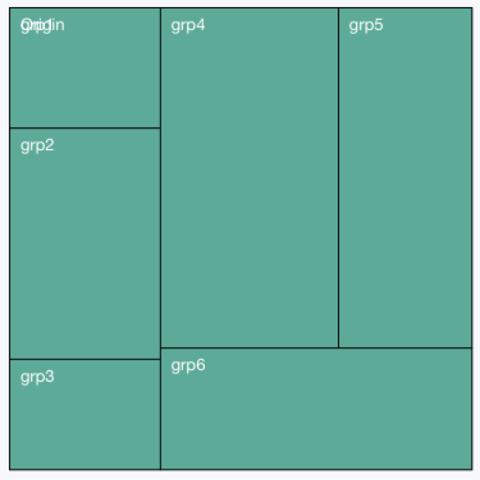
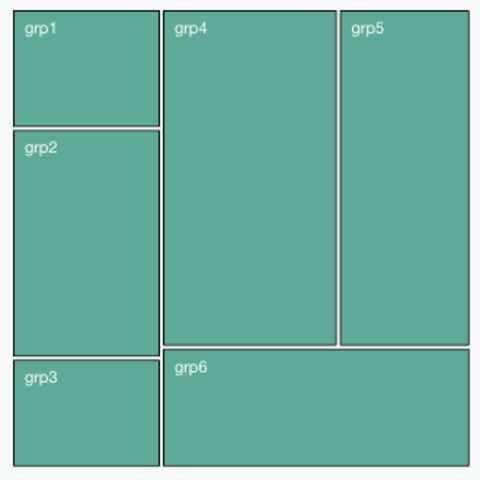
work on treemap

Changed region(s): [[0.0, 0.0, 1.0, 1.0]]

diff --git a/graph/treemap_json.html b/graph/treemap_json.html
@@ -14,15 +14,15 @@
   </script>
 
   <meta charset="utf-8">
-  <title>Basic treemap in d3.js</title>
+  <title>Treemap from Json format in d3.js</title>
   <meta name="viewport" content="width=device-width, initial-scale=1, shrink-to-fit=no">
-  <meta name="description" content="Using d3.js to create a very basic treemap: example with reproducible code.">
+  <meta name="description" content="Using d3.js to create a basic treemap from Json format: example with reproducible code.">
   <meta name="keywords" content="Data, Dataviz, Datavisualization, Javascript, JS, d3.js, treemap">
   <meta name="author" content="Yan Holtz">
 
-  <meta property="og:title" content="Basic treemap in d3.js">
+  <meta property="og:title" content="Treemap from Json format in d3.js">
   <meta property="og:image" content="https://www.d3-graph-gallery.com/img/logo/D3_full_medium.png">
-  <meta property="og:description" content="Using d3.js to create a very basic treemap: example with reproducible code.">
+  <meta property="og:description" content="Using d3.js to create a basic treemap from Json format: example with reproducible code.">
 
   <!-- Bootstrap core CSS -->
   <link href="../vendor/bootstrap/css/bootstrap.min.css" rel="stylesheet">
@@ -79,7 +79,7 @@ $(function(){
 <!-- Header -->
 <header class="masthead">
   <div class="textlanding">
-      <h1>Most basic treemap in d3.js</h1>
+      <h1>Treemap from Json format in d3.js</h1>
       <hr class="short_hr">
       <br>
       <ul class="list-inline social-buttons">
@@ -105,7 +105,7 @@ $(function(){
         </li>
       </ul>
       <br><br>
-      <p style="max-width: 700px; margin: auto">This post describes how to build a very basic <a href="../treemap.html">treemap</a> with d3.js. It takes into account a hierarchy dataset, stored at <code>.csv</code> format. See many other examples in the <a href="../treemap.html">treemap section</a> of the gallery. Learn more about the theory of treemaps in <a href="https://www.data-to-viz.com/graph/treemap.html">data-to-viz.com</a>.</p>
+      <p style="max-width: 700px; margin: auto">This post describes how to build a basic <a href="../treemap.html">treemap</a> with d3.js from a <code>Json</code> format input file. See <a href="treemap_basic.html">here</a> for <code>.csv</code> input format. More treemaps in the <a href="../treemap.html">dedicated section</a> of the gallery..</p>
       <br>
       <a class="btn btn-secondary btn-md text-uppercase" href="../treemap.html">Treemap section</a>
       <button class="btn btn-secondary btn-md text-uppercase" onclick="myCodeDownload('chart_example_from_d3-graph-gallery.html', 'code', 'codejs')">Download code</button>
@@ -192,28 +192,26 @@ var svg = d3.select("#my_dataviz")
   .attr("transform",
         "translate(" + margin.left + "," + margin.top + ")");
 
-// Read data
-d3.csv('https://raw.githubusercontent.com/holtzy/D3-graph-gallery/master/DATA/data_hierarchy_1level.csv', function(data) {
+// read json data
+d3.json("https://raw.githubusercontent.com/holtzy/D3-graph-gallery/master/DATA/data_dendrogram.json", function(data) {
 
-  // stratify the data: reformatting for d3.js
-  var root = d3.stratify()
-    .id(function(d) { return d.name; })   // Name of the entity (column name is name in csv)
-    .parentId(function(d) { return d.parent; })   // Name of the parent (column name is parent in csv)
-    (data);
-  root.sum(function(d) { return +d.value })   // Compute the numeric value for each entity
+  // Give the data to this cluster layout:
+  var root = d3.hierarchy(data, function(d) {
+      return d.children;
+  })
+  console.log(root)
 
   // Then d3.treemap computes the position of each element of the hierarchy
   // The coordinates are added to the root object above
-  d3.treemap()
-    .size([width, height])
-    .padding(4)
-    (root)
+  // d3.treemap()
+  //   .size([width, height])
+  //   .padding(20)
+  //   (root)
 
-console.log(root.leaves())
   // use this information to add rectangles:
   svg
     .selectAll("rect")
-    .data(root.leaves())
+    .data(root.descendants())
     .enter()
     .append("rect")
       .attr('x', function (d) { return d.x0; })
@@ -226,7 +224,7 @@ console.log(root.leaves())
   // and to add the text labels
   svg
     .selectAll("text")
-    .data(root.leaves())
+    .data(root.descendants())
     .enter()
     .append("text")
       .attr("x", function(d){ return d.x0+10})    // +10 to adjust position (more right)

diff --git a/treemap.html b/treemap.html
@@ -124,8 +124,13 @@ $(function(){
 
     <div class="mySeryTitle">Step by step</div>
     <hr>
+    <p>It is important to note that 2 different <u>input formats</u> can be used to build a treemap:
+      <ul>
+        <li>A <code>.csv</code> file with one line per connection in the hierarchy. See <a href="treemap_basic.html">here</a>.</li>
+        <li>A <code>.json</code> file. See <a href="">here</a></li>
+      </ul>
+    </p>
     <div id="portfolio-items" class="row">
-
       <div class="col-md-4 col-sm-6 portfolio-item">
         <a class="portfolio-link" href="graph/treemap_basic.html">
           <div class="portfolio-hover">
@@ -138,6 +143,40 @@ $(function(){
           <img class="img-fluid" src="img/graph/treemap_basic.png" alt="">
         </a>
       </div>
+    </div>
+
+
+    <br><br><br><br>
+    <div class="mySeryTitle">Selection of blocks</div>
+    <hr>
+    <p>A few blocks with more complicated codes to showcase the possibility of d3 for treemaps</a>
+    <div id="portfolio-items" class="row">
+      <div class="col-md-4 col-sm-6 portfolio-item">
+        <a class="portfolio-link" href="https://bl.ocks.org/mbostock/6bbb0a7ff7686b124d80">
+          <div class="portfolio-hover">
+            <div class="portfolio-hover-content">
+              <p>Clean static treemap</p>
+              <hr>
+              <p class="explanation_portfolio">A clean layout for this static treemap by Mike Bostock. Always good to read d3.js creator's code.</p>
+            </div>
+          </div>
+          <img class="img-fluid showBlock" src="img/block/block_treemapMike.png" alt="Treemap mike d3">
+        </a>
+      </div>
+      <div class="col-md-4 col-sm-6 portfolio-item">
+        <a class="portfolio-link" href="https://bl.ocks.org/ganezasan/52fced34d2182483995f0ca3960fe228">
+          <div class="portfolio-hover">
+            <div class="portfolio-hover-content">
+              <p>Button and smooth transition</p>
+              <hr>
+              <p class="explanation_portfolio">A treemap with a button allowing to switch from size to count for rectangle size. Good to learn how to perform a smooth transition.</p>
+            </div>
+          </div>
+          <img class="img-fluid showBlock" src="img/block/block_treemapTransitionData.png" alt="circular barchart">
+        </a>
+      </div>
+    </div>
+
 
  </div>
 </section>
